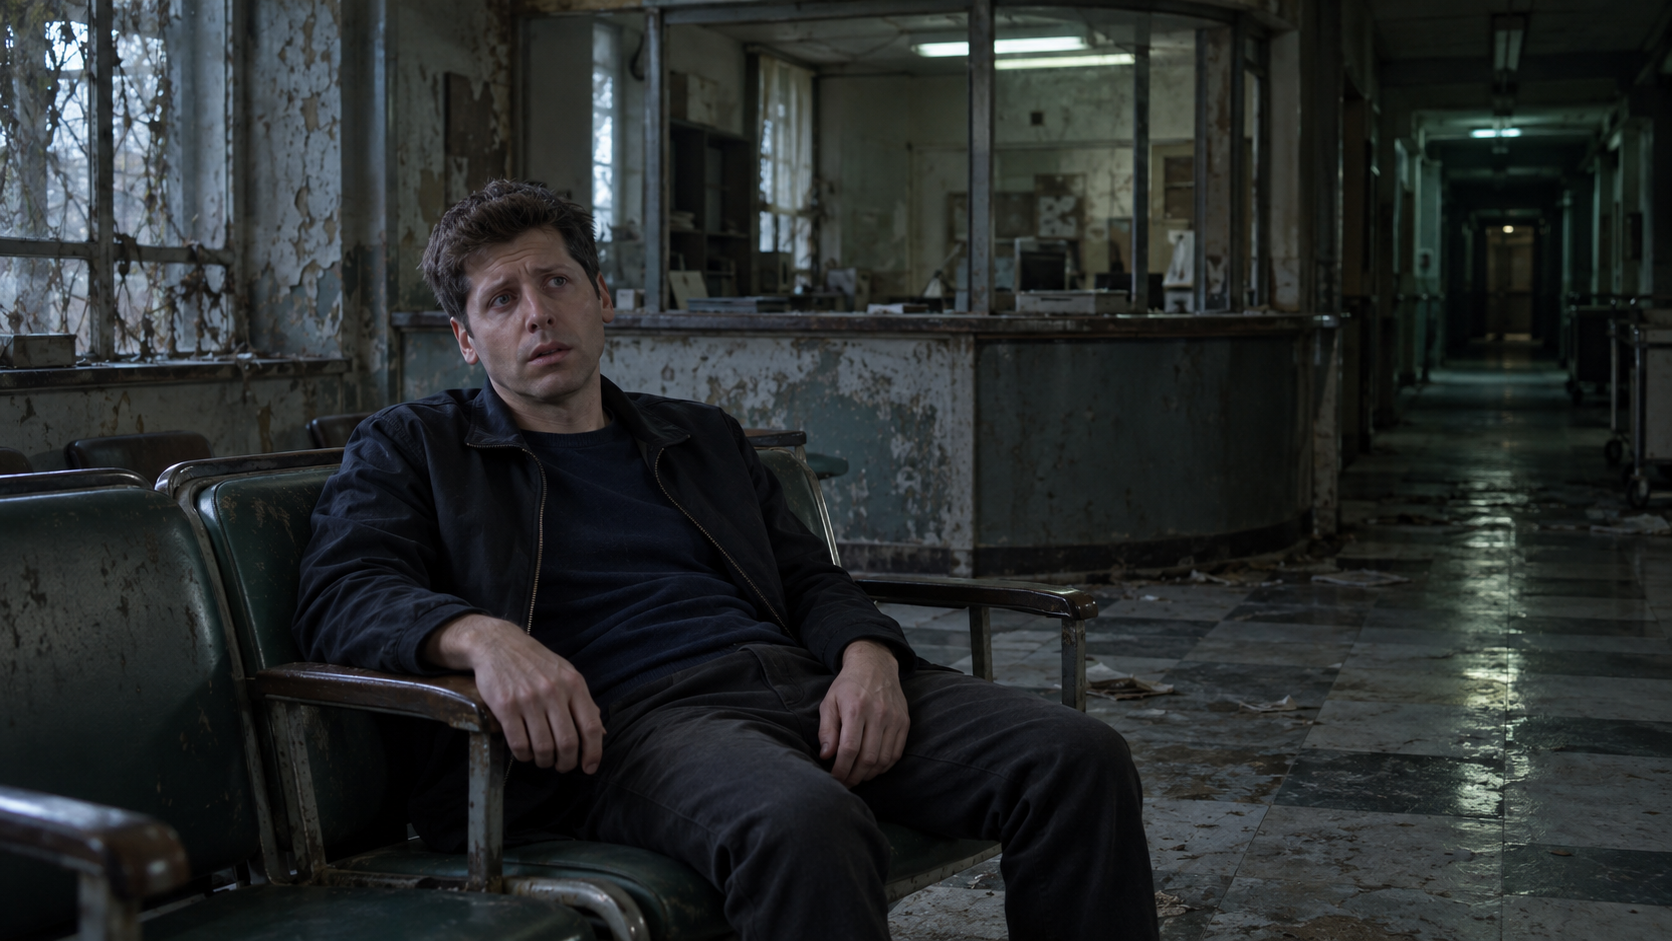
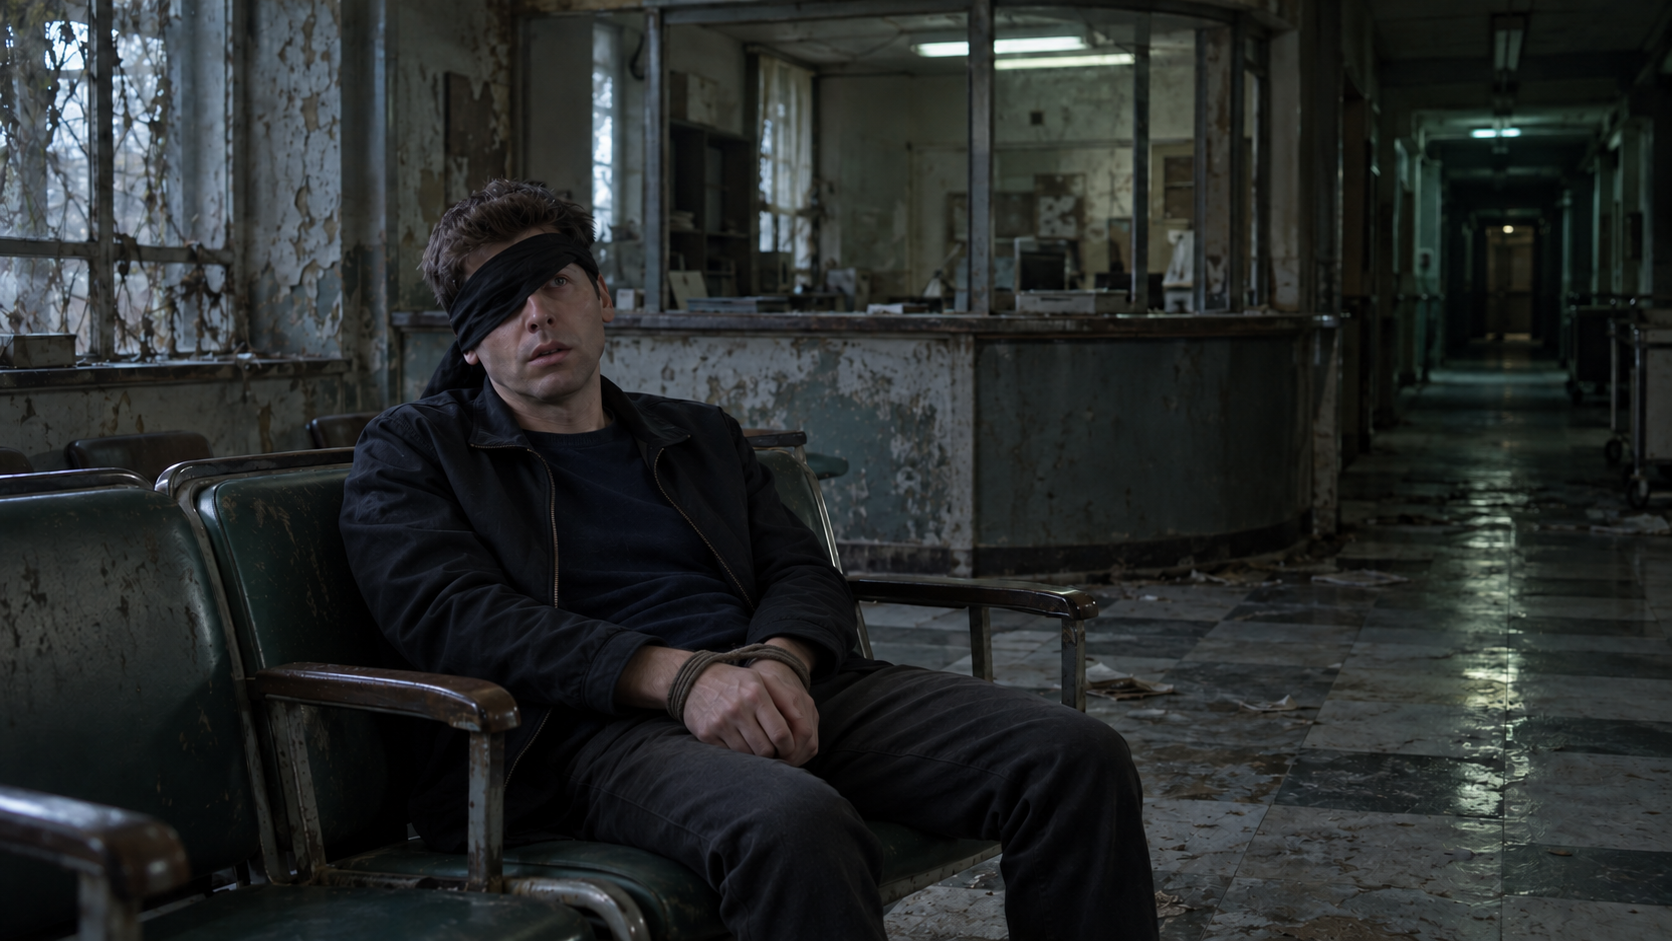
Clarify abduction in BLACKSITE opening frame

diff --git a/docs/sam-chase.md b/docs/sam-chase.md
@@ -48,13 +48,13 @@
 
 ## オープニング映像の先頭フレーム
 
-2026-10-18の依頼「知らない廃病院の受付で目覚めるサム・アルトマン」を、写実的なホラー映像の最初のカットとしてbuilt-in `image_gen`で生成しました。待合椅子に身体を預けたサム、無人の受付カウンター、暗い廊下を一画面に収め、続く動画で顔を上げて周囲を見回せる構図です。施設と主人公の設定は[BLACKSITE 開発ノート](https://chatgpt.com/space/page_6ad364e1b6988191bc1b900799453a36)を参照しました。
+2026-10-18の依頼「知らない廃病院の受付で目覚めるサム・アルトマン」を、写実的なホラー映像の最初のカットとしてbuilt-in `image_gen`で生成しました。待合椅子に身体を預けたサム、無人の受付カウンター、暗い廊下を一画面に収め、続く動画で顔を上げて周囲を見回せる構図です。同日の追加依頼で、意図せず連れ去られた状況が分かるよう、片目にかかるずれた黒い布の目隠しと、膝上でまとめられた手首の縄を同じツールで加えました。主人公の外見と受付の構図・照明を保っています。施設と主人公の設定は[BLACKSITE 開発ノート](https://chatgpt.com/space/page_6ad364e1b6988191bc1b900799453a36)を参照しました。
 
-動画制作の入力として、生成時のPNGを無加工で[public/blacksite-opening-frame.png](../public/blacksite-opening-frame.png)に保存しています。1672×941px（約16:9）、2,082,429 bytes、背景不透過です。実画像の目視とPNGのデコードを確認し、元ファイルとのSHA-256一致を確認しました。
+動画制作の入力として、編集出力のPNGを無加工で[public/blacksite-opening-frame.png](../public/blacksite-opening-frame.png)に保存しています。1672×941px（約16:9）、1,986,383 bytes、背景不透過です。目視・PNGのデコード・編集出力とのSHA-256一致を確認しました。初回の画像とプロンプトはGit履歴の `5a0c7c0` に残しています。
 
 検証: 既存55テストと差分の空白チェックが成功しました。追跡中のソースと今回の2ファイルを取り出した環境でWorkerビルドが成功し、配信物のPNGも元データと一致しました。通常の作業ディレクトリでのビルドは、Git管理外の別プロジェクト `blacksite2/vite.config.ts` が親のTypeScript対象に含まれるため失敗します。
 
-生成に使用したプロンプト全文:
+初回生成に使用したプロンプト全文:
 
 ```text
 Use case: photorealistic-natural
@@ -66,6 +66,22 @@ Style/medium: Photorealistic cinematic psychological-horror film still, grounded
 Composition/framing: Medium-wide 35mm shot from seated eye level, slightly three-quarter frontal. Sam is the immediate focal point while the reception counter and empty hospital environment remain unmistakably visible in the same composition. Leave comfortable space above his head and into the room so a subsequent video can begin with a slow head lift, glance around, and subtle camera push-in. A single quiet opening moment rather than a completed frightened reaction.
 Lighting/mood: Faint cold window light reveals his eyes and face; weak sickly green fluorescent light in the reception mixes with the blue-gray shadows. Dark but readable midtones, pale desaturated colors, oppressive stillness, restrained dread, realistic motivated lighting.
 Constraints: One adult subject only. No killer, ghosts, extra people, blood, wounds, restraints, weapons, or gore. No invented narrative props. No text, legible signs, subtitles, titles, logos, UI, timestamp, watermark, borders, or letterboxing. No collage, no multiple panels. Landscape 16:9, full image composition, realistic human likeness and anatomy.
+```
+
+
+編集に使用したプロンプト全文（入力: 初回の生成画像）:
+
+```text
+Use case: precise-object-edit
+Asset type: BLACKSITE fictional horror-game opening video, first frame.
+Input image 1: EDIT TARGET — the existing cinematic still of Sam Altman waking in an abandoned hospital reception. Use this exact image as the base.
+Primary request: Add clear visual props showing that Sam was brought here against his will and is only now waking up.
+Change only these local details:
+1. Add a plain, visibly wrinkled black cloth blindfold across his eyes, displaced diagonally so it still covers one eye while the other eye is partly exposed. It should unmistakably read as a recently shifted blindfold, not a scarf, headband, medical eye patch, or neckwear. Keep his exposed eye, nose, mouth, facial proportions and hair naturally recognizable as the same Sam Altman.
+2. Bring both of his existing hands together naturally over his lap, with both wrists loosely bound together in front by a small amount of plain cord. The binding is visible at a glance but understated, with no knot-making detail, no pressure marks or injury. Preserve two anatomically correct hands with natural fingers and the original dark clothing.
+His slumped waking posture and the confused expression of the exposed part of his face must remain. These props should communicate involuntary abduction in a fictional psychological horror story, not a posed fashion scene.
+Invariants: Preserve the same person and recognizable identity, same jacket and trousers, same body scale, same waiting chair and reception counter, same dark corridor, decayed hospital surfaces, camera angle, framing, original image dimensions and landscape aspect ratio, film grain, cold window light, green fluorescent atmosphere, and photorealistic cinematic style. Keep the background and every other object unchanged. Match the added cloth and cord to the existing perspective, shadows, and lighting.
+Constraints: One adult person only. No added captor or monster. No gag, no neck restraints, no weapons, blood, bruises, wounds, gore, or graphic violence. No extra limbs or fingers, no text, signs, subtitles, UI, logos, timestamps, watermark, border or black bars. Do not redesign the scene.
 ```
 
 ## SDK参照
